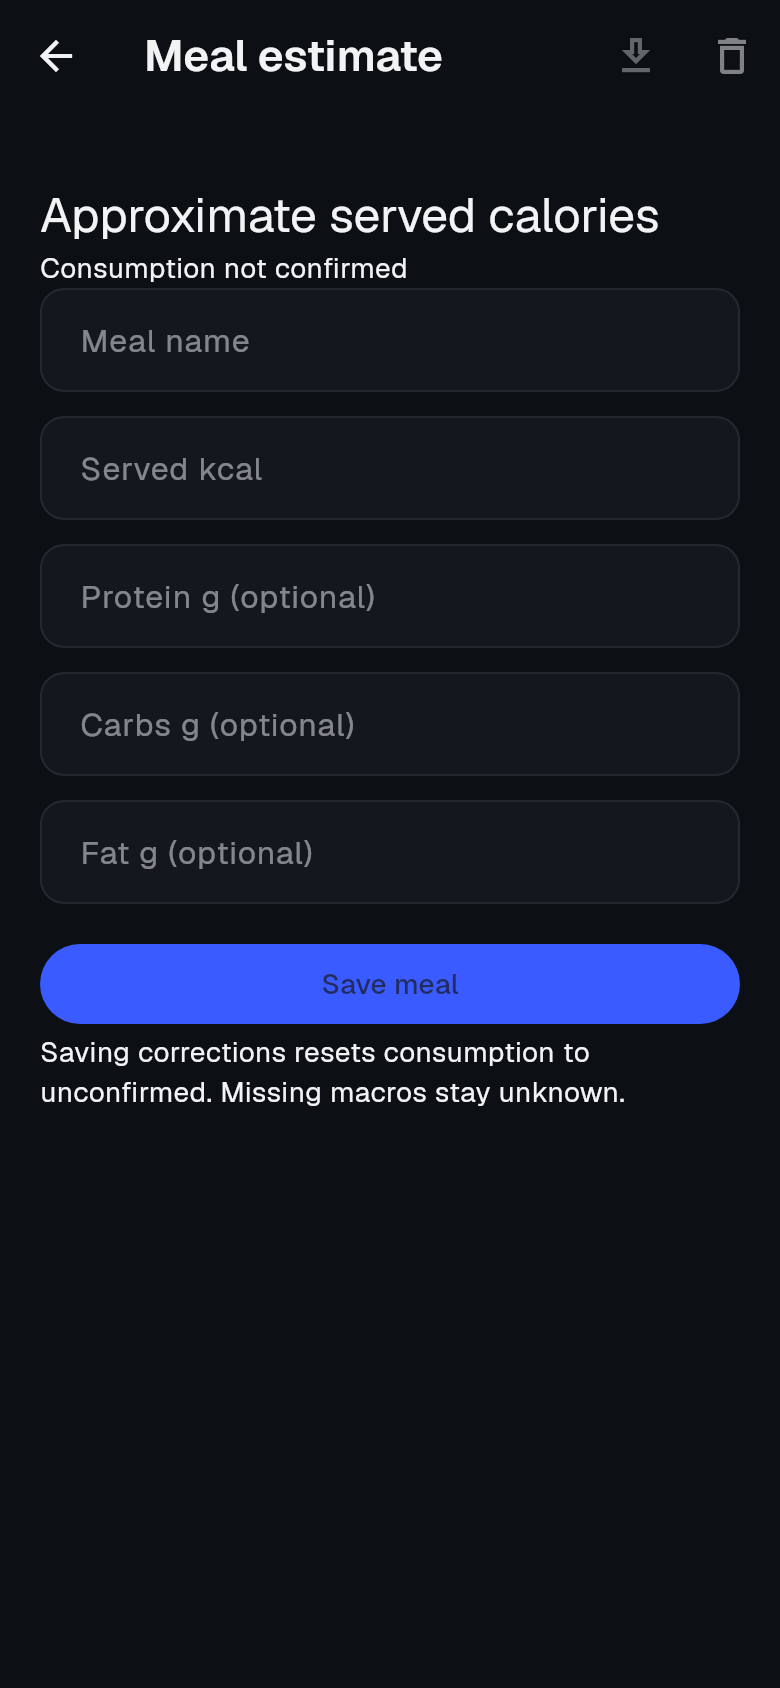
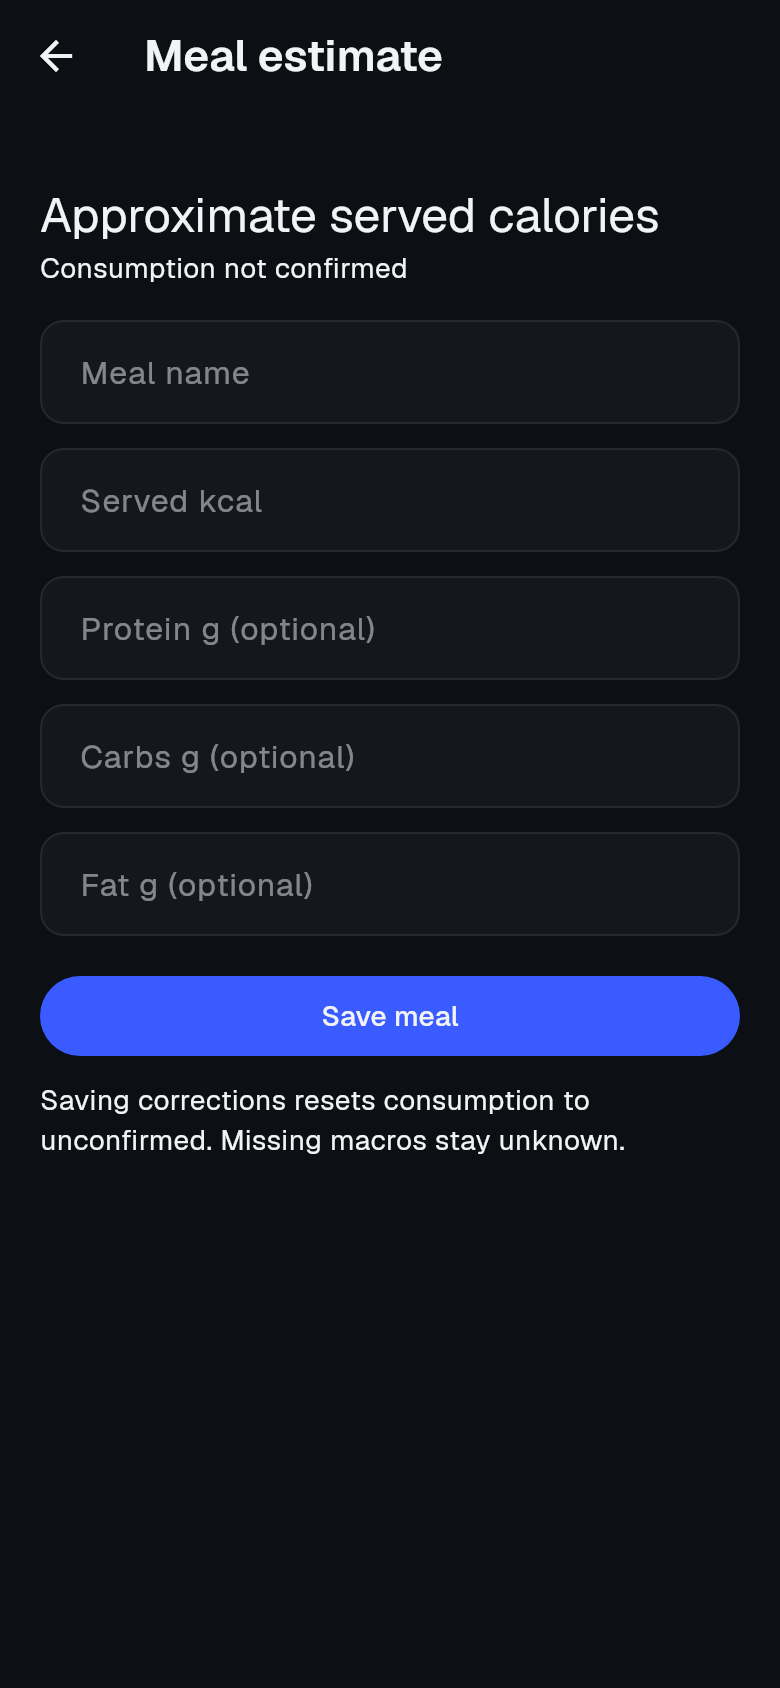
Record Tier1 fix status and refreshed renders
Keeps the defect list resumable.

diff --git a/docs/UI_REVIEW_AND_HANDOVER_2026-11-14.md b/docs/UI_REVIEW_AND_HANDOVER_2026-11-14.md
@@ -34,11 +34,17 @@ dart format lib/features/tier1 test/tier1                      # pinned Dart 3.1
 ```
 Open the PNGs with your image reader, or send them to Gemini (`ask-ai`, `@/abs/path.png`). To add a state, add a
 `testWidgets` block to `tool/ui/tier1_shots_test.dart`. The camera area renders empty there (fake camera); every
-other pixel is the real widget tree with the real fonts. Shots from 2026-11-15 (worktree `503496d`) are in
+other pixel is the real widget tree with the real fonts. Shots from 2026-11-15 (worktree `356aa55`, after the fixes) are in
 `docs/live-app-screenshots/tier1-2026-11-15/`.
 
 **Verdict:** a working pilot with default Material forms. None of the product's identity is on screen: no macro
 colors, no daily total, no ring, and the app bar says "AppName".
+
+**Status of the list below (update after every fix):** 2, 3, 4, 7 DONE in worktree `356aa55` (plus the cause of 7:
+the dark theme's seeded `onPrimary` was dark navy; both schemes now state it in `lib/core/theme/app_theme.dart`).
+1 is WITHDRAWN: `AppName` is an intentional placeholder (comment in `app_constants.dart`); the owner must name the
+app. 5, 6, 8 are NOT DONE; 5 and 8 are the ones that would make it look like the product. Grok's free limit ran
+out on its first task on 2026-11-15, so the main host made these edits directly, as the owner allowed.
 
 **Defects, most visible first** (`lib/features/tier1/tier1_app.dart` unless noted):
 1. [App bar title] shows the literal `AppName` (`lib/core/constants/app_constants.dart:3`). Set it to `Calorix`.
